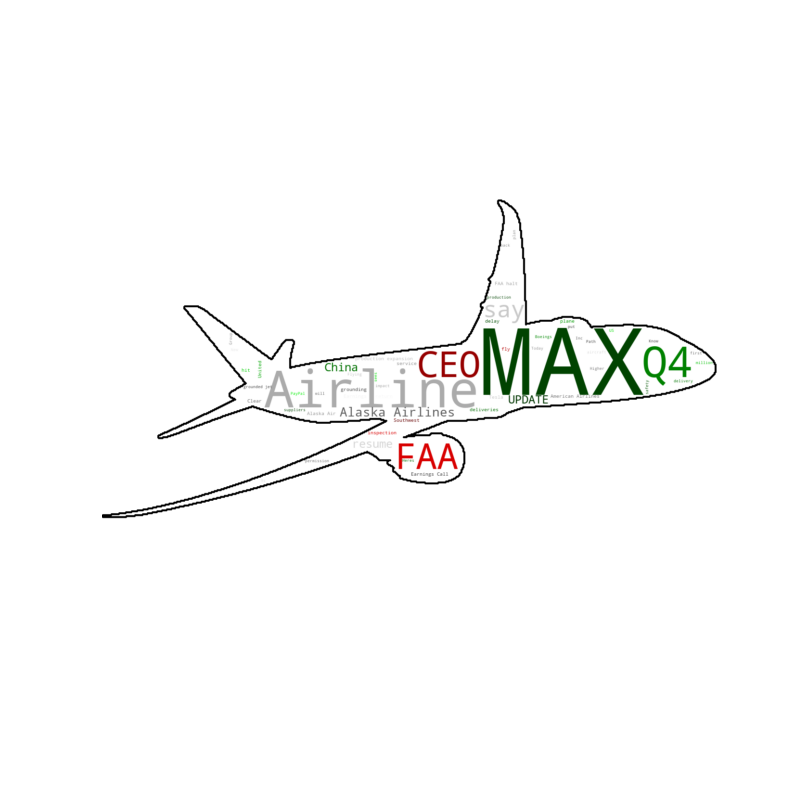
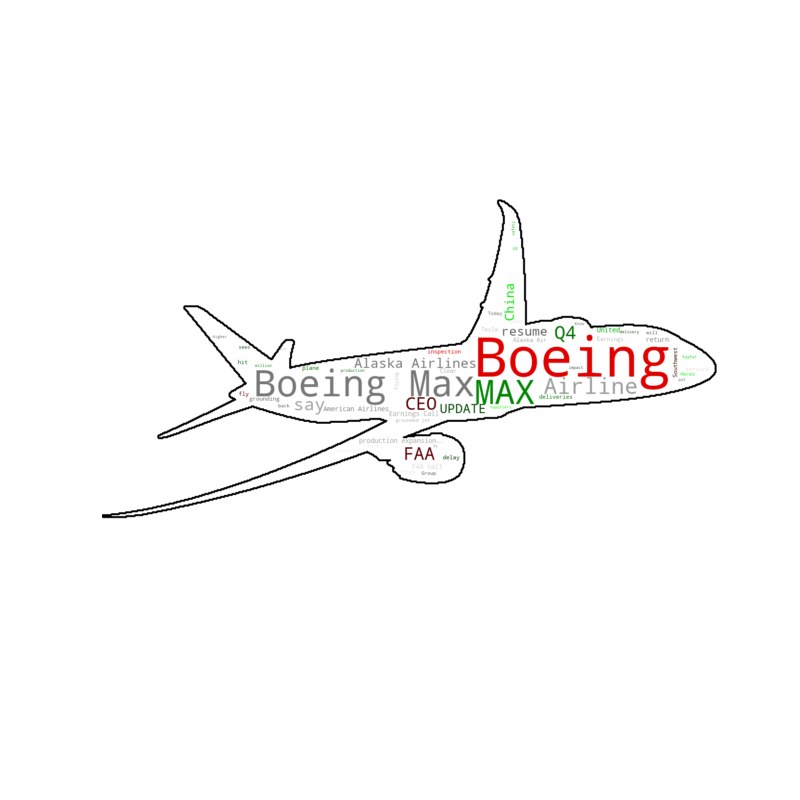
revisied wordcloud

Changed region(s): [[0.3125, 0.3438, 0.875, 0.5938]]

diff --git a/sp500/visualization/create_word_cloud.py b/sp500/visualization/create_word_cloud.py
@@ -5,6 +5,7 @@ import os
 import re
 import numpy as np
 from PIL import Image
+import yfinance as yf
 
 ADDITIONAL_STOPWORDS = [
     "stock",
@@ -36,7 +37,9 @@ def read_headlines(df):
     def classifier_sentiment(row):
         if row["pos"] > row["neg"] and row["Segmentation Compound"] == "Positive High":
             return "positive"
-        elif row["pos"] < row["neg"] and row["Segmentation Compound"] == "Negative High":
+        elif (
+            row["pos"] < row["neg"] and row["Segmentation Compound"] == "Negative High"
+        ):
             return "negative"
         else:
             return "uncertain"
@@ -110,6 +113,24 @@ def extract_keywords_from_headlines(headlines, stopwords):
     return keywords
 
 
+def map_stock_names_to_company_names(df, stock_column):
+    # Ensure the stock_column exists in the DataFrame
+    if stock_column not in df.columns:
+        raise ValueError(f"Column {stock_column} does not exist in DataFrame")
+
+    # Initialize a dictionary to store company names
+    company_names = {}
+
+    # Fetch company names using yfinance
+    for symbol in df[stock_column]:
+        ticker = yf.Ticker(symbol)
+        # Attempt to get the company name, add None if not found
+        company_name = ticker.info.get("longName", None)
+        company_names[symbol] = company_name
+
+    return company_names
+
+
 def create_sentiment_to_keywords_dict(company_headlines_sentiment, stopwords):
     """
     Creates a dictionary that maps sentiment categories (positive, negative)
@@ -151,11 +172,10 @@ def map_sentiments_to_colors(sentiment_to_keywords, sentiment_color_mapping):
     """
     color_to_keywords = {}
 
+    # Get the color corresponding to the current sentiment
+    # Default to gray if sentiment is not found
     for sentiment, keywords in sentiment_to_keywords.items():
-        # Get the color corresponding to the current sentiment
-        color = sentiment_color_mapping.get(
-            sentiment, "#808080"
-        )  # Default to gray if sentiment is not found
+        color = sentiment_color_mapping.get(sentiment, "#808080")
 
         # Initialize the keyword list for this color if it doesn't exist
         if color not in color_to_keywords:
@@ -175,11 +195,10 @@ def create_default_mask():
         numpy.ndarray: A default mask array.
     """
     # Create a simple circle as a default mask
-    # You can modify this to be any shape you prefer
     mask_size = (300, 300)
     mask = np.zeros(mask_size, dtype=np.uint8)
     center_x, center_y = np.array(mask_size) // 2
-    radius = min(mask_size) // 2 - 10  # radius of the circle
+    radius = min(mask_size) // 2 - 10
 
     for x in range(mask_size[0]):
         for y in range(mask_size[1]):
@@ -200,12 +219,12 @@ def create_wordcloud(
 
     # Define the mapping from sentiments to color codes
     sentiment_color_mapping = {
-        "positive": "#FF0000",  # Red for positive sentiment
-        "negative": "#008000",  # Green for negative sentiment
-        "neutral": "#808080",  # Gray for neutral sentiment
+        "positive": "#FF0000",
+        "negative": "#008000",
+        "neutral": "#808080",
     }
 
-    # Ensure the visualization directory exists
+    # Initialize the visualization directory exists
     if not os.path.exists(visualization_dir):
         os.makedirs(visualization_dir)
 
@@ -221,6 +240,8 @@ def create_wordcloud(
     # Add additional custom stopwords
     updated_stopwords = add_stopwords_with_regex(ADDITIONAL_STOPWORDS, custom_stopwords)
 
+    # Iterate through each entry in headlines_dict
+    # And check if a dictionary of company logo paths exists
     for company, sentiments in headlines_dict.items():
         if company_logo_paths and company in company_logo_paths:
             mask_path = company_logo_paths[company]
@@ -253,8 +274,6 @@ def create_wordcloud(
         all_headlines = " ".join(
             [" ".join(keywords) for keywords in sentiment_to_keywords.values()]
         )
-
-        # Retrieve the path to the company's logo, create a mask from it and invert the mask colors for the word cloud
 
         # Create a WordCloud instance
         wordcloud = WordCloud(

diff --git a/sp500/visualization/wordcloud_in_logo.py b/sp500/visualization/wordcloud_in_logo.py
@@ -1,16 +1,8 @@
 import os
 from pathlib import Path
 import pandas as pd
-from create_word_cloud import create_wordcloud
+from create_word_cloud import create_wordcloud, map_stock_names_to_company_names
 
-STOCK_TO_COMPANY = {
-    "AAPL": "Apple",
-    "NVDA": "Nvidia",
-    "BA": "Boeing",
-    "GOOG": "Google",
-    "AMZN": "Amazon",
-    "STOCK": "Stock",
-}
 
 PICTURE_PATE = os.path.dirname(os.path.abspath(__file__))
 
@@ -27,10 +19,11 @@ def run_word_cloud():
     filename = Path(__file__).parent.parent / "sa/data/Finished_test_sa.csv"
     visualization_dir = Path(__file__).resolve().parent / "visualization"
     df = pd.read_csv(filename)
+    stock_to_company = map_stock_names_to_company_names(df, "Company")
     create_wordcloud(
         df=df,
         company_logo_paths=COMPANY_LOGO_PATHS,
-        stock_to_company=STOCK_TO_COMPANY,
+        stock_to_company=stock_to_company,
         visualization_dir=visualization_dir,
     )
 
